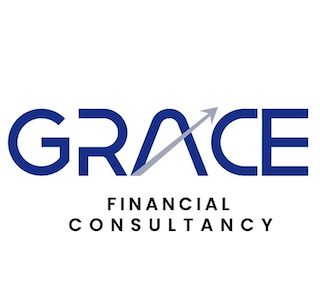
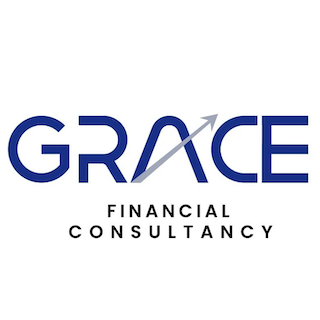
Updated

diff --git a/src/pages/Application.jsx b/src/pages/Application.jsx
@@ -6,6 +6,7 @@ export default function Application() {
   const [searchParams] = useSearchParams()
   const [submitting, setSubmitting] = useState(false)
   const [submitted, setSubmitted] = useState(false)
+  const [showOverlay, setShowOverlay] = useState(true)
   const loanType = searchParams.get('type') || ''
   const [formRef, formVis] = useReveal()
 
@@ -21,7 +22,25 @@ export default function Application() {
   }
 
   return (
-    <main className="mt-giant">
+    <main className="mt-giant relative">
+      {showOverlay && (
+        <div className="fixed inset-0 z-40 flex items-center justify-center bg-black/30 px-md">
+          <div className="relative bg-black/70 backdrop-blur-xl border border-white/10 p-xxl rounded-2xl shadow-2xl max-w-md w-full text-center space-y-xl">
+            <div className="space-y-lg mt-lg">
+              <p className="text-body-lg text-white/80 leading-relaxed">
+                Application Form is currently on working so please contact we on through whatsapp
+              </p>
+              <a href="https://wa.me/919995533809" target="_blank" rel="noopener noreferrer"
+                className="inline-flex items-center justify-center gap-md bg-[#25D366] text-white px-xl py-md rounded-xl text-headline-sm font-semibold hover:shadow-lg hover:brightness-110 transition-all w-full">
+                <svg viewBox="0 0 24 24" fill="currentColor" className="w-6 h-6" xmlns="http://www.w3.org/2000/svg">
+                  <path d="M17.472 14.382c-.297-.149-1.758-.867-2.03-.967-.273-.099-.471-.148-.67.15-.197.297-.767.966-.94 1.164-.173.199-.347.223-.644.075-.297-.15-1.255-.463-2.39-1.475-.883-.788-1.48-1.761-1.653-2.059-.173-.297-.018-.458.13-.606.134-.133.298-.347.446-.52.149-.174.198-.298.298-.497.099-.198.05-.371-.025-.52-.075-.149-.669-1.612-.916-2.207-.242-.579-.487-.5-.669-.51-.173-.008-.371-.01-.57-.01-.198 0-.52.074-.792.372-.272.297-1.04 1.016-1.04 2.479 0 1.462 1.065 2.875 1.213 3.074.149.198 2.096 3.2 5.077 4.487.709.306 1.262.489 1.694.625.712.227 1.36.195 1.871.118.571-.085 1.758-.719 2.006-1.413.248-.694.248-1.289.173-1.413-.074-.124-.272-.198-.57-.347m-5.421 7.403h-.004a9.87 9.87 0 01-5.031-1.378l-.361-.214-3.741.982.998-3.648-.235-.374a9.86 9.86 0 01-1.51-5.26c.001-5.45 4.436-9.884 9.888-9.884 2.64 0 5.122 1.03 6.988 2.898a9.825 9.825 0 012.893 6.994c-.003 5.45-4.437 9.884-9.885 9.884m8.413-18.297A11.815 11.815 0 0012.05 0C5.495 0 .16 5.335.157 11.892c0 2.096.547 4.142 1.588 5.945L.057 24l6.305-1.654a11.882 11.882 0 005.683 1.448h.005c6.554 0 11.89-5.335 11.893-11.893a11.821 11.821 0 00-3.48-8.413z" />
+                </svg>
+                Click to Contact Us
+              </a>
+            </div>
+          </div>
+        </div>
+      )}
       <style>{`
         @keyframes fadeInUp { from { opacity: 0; transform: translateY(40px); } to { opacity: 1; transform: translateY(0); } }
         .anim-hero { animation: fadeInUp 0.8s ease-out both; }